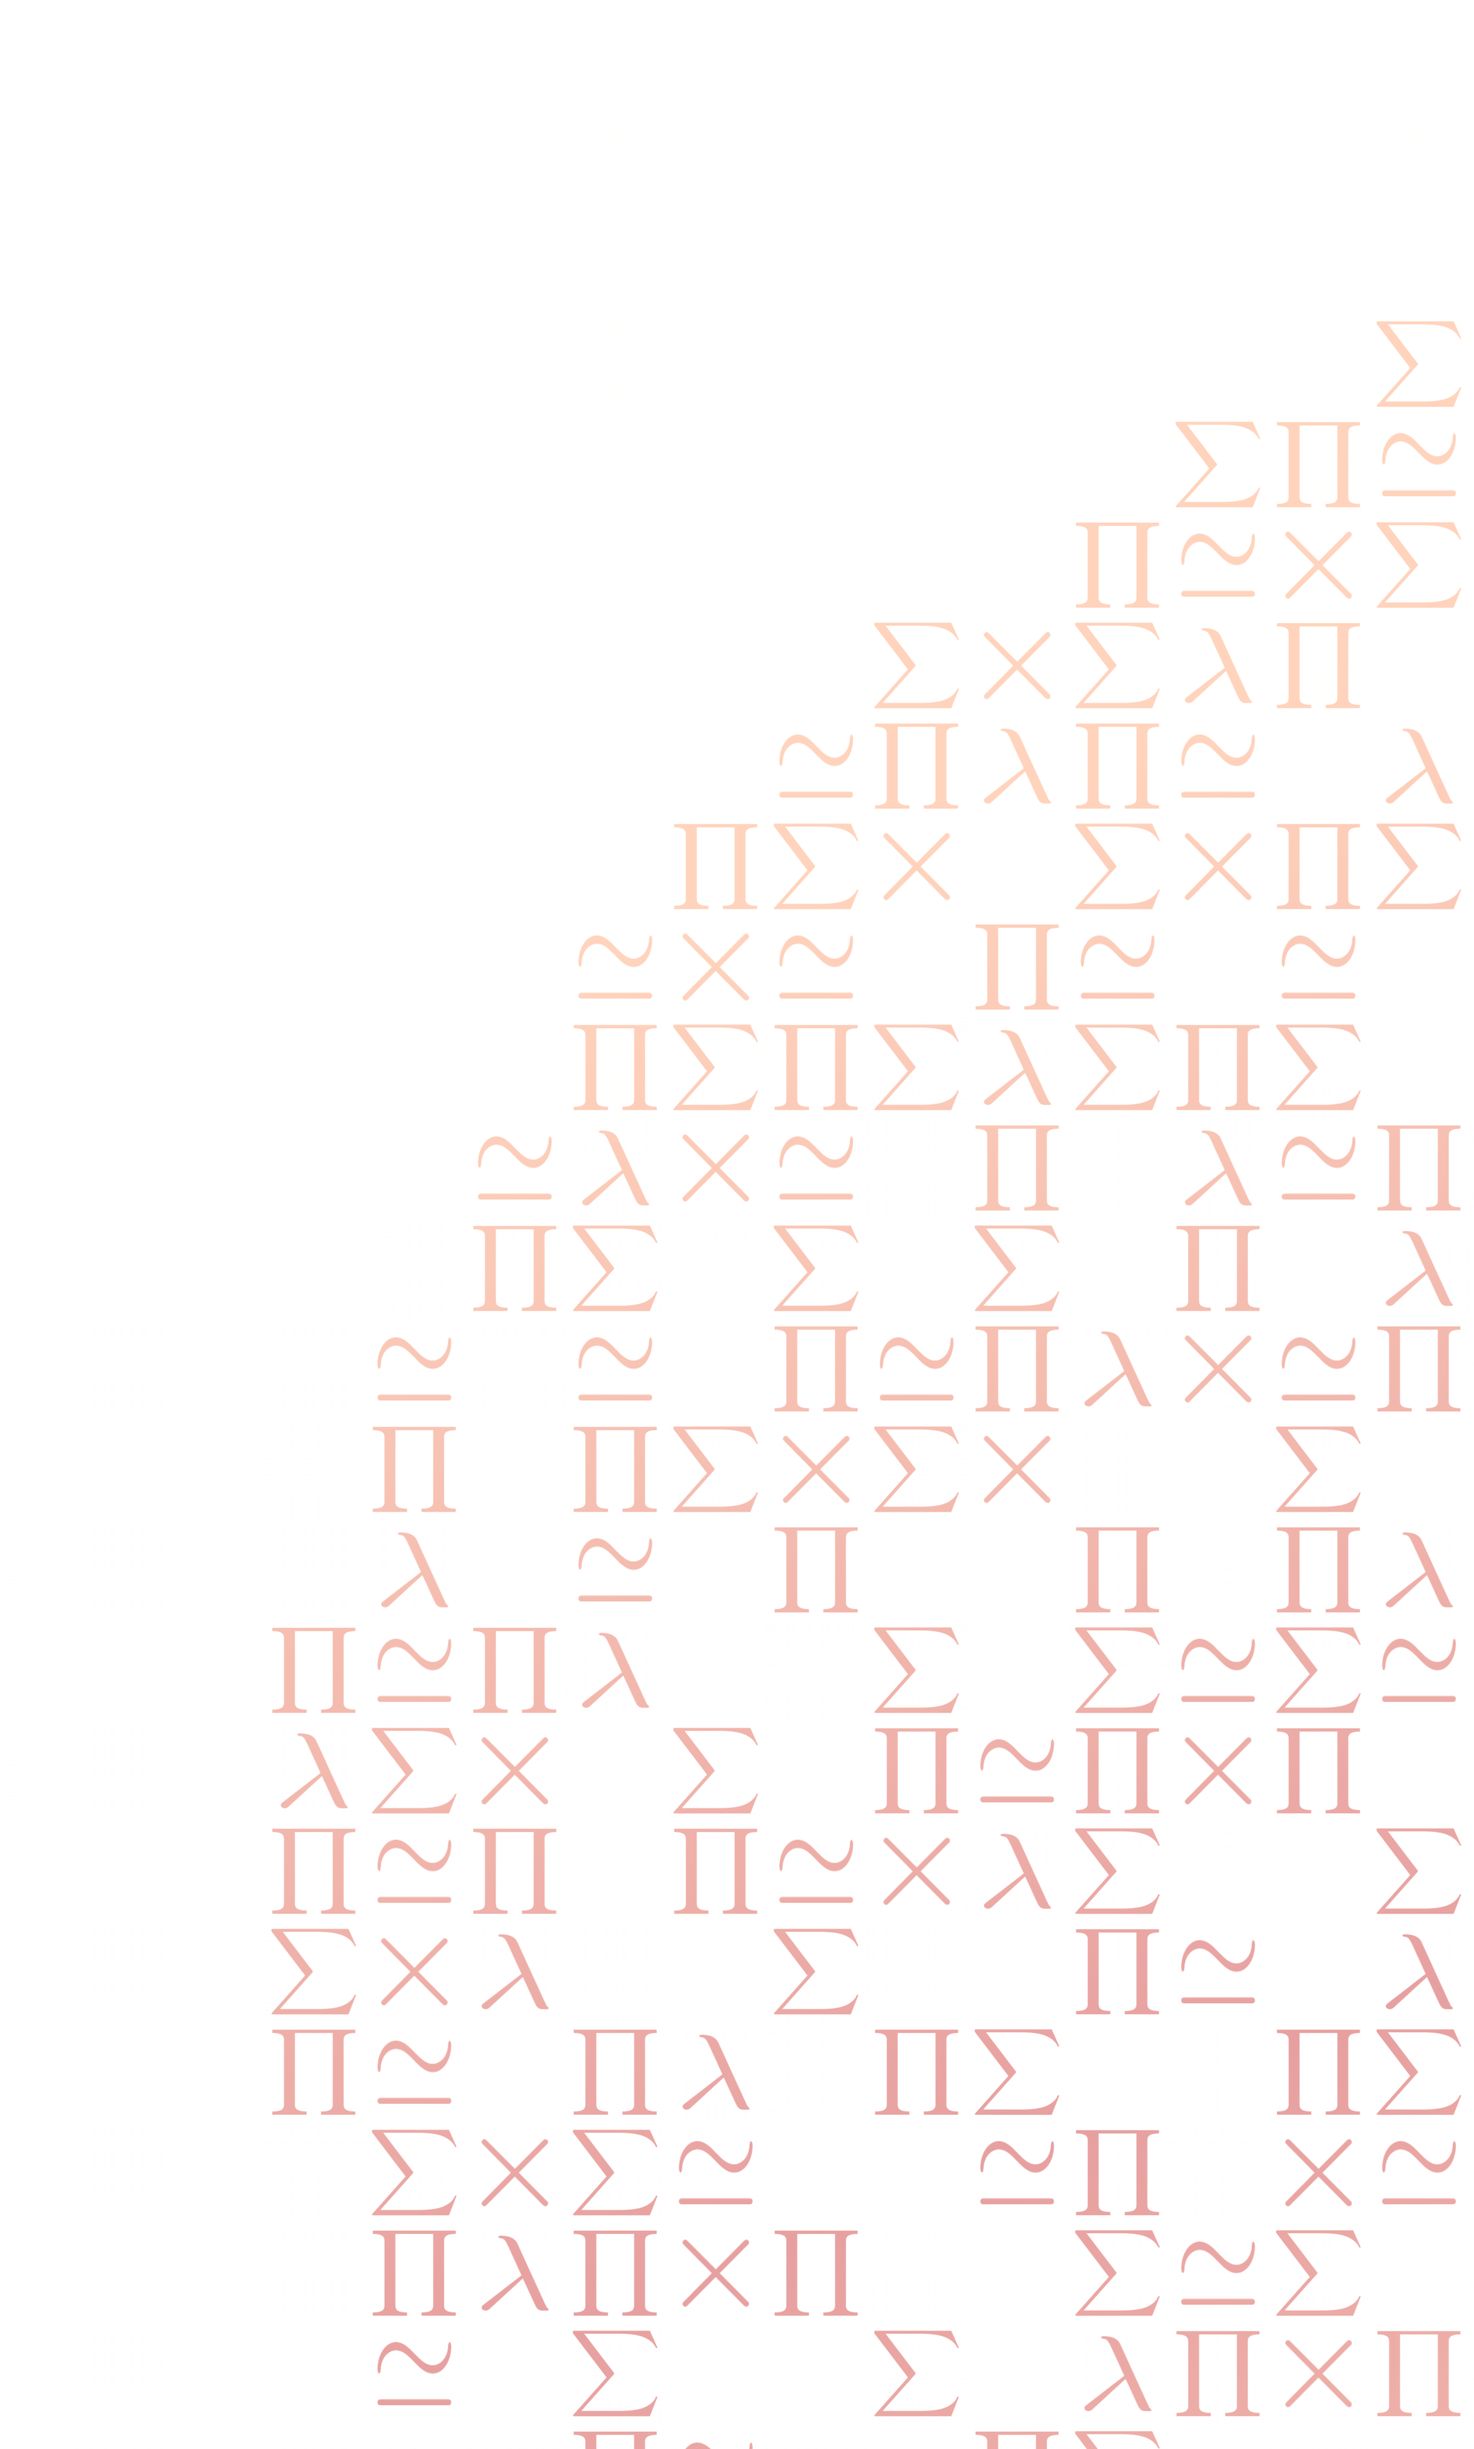
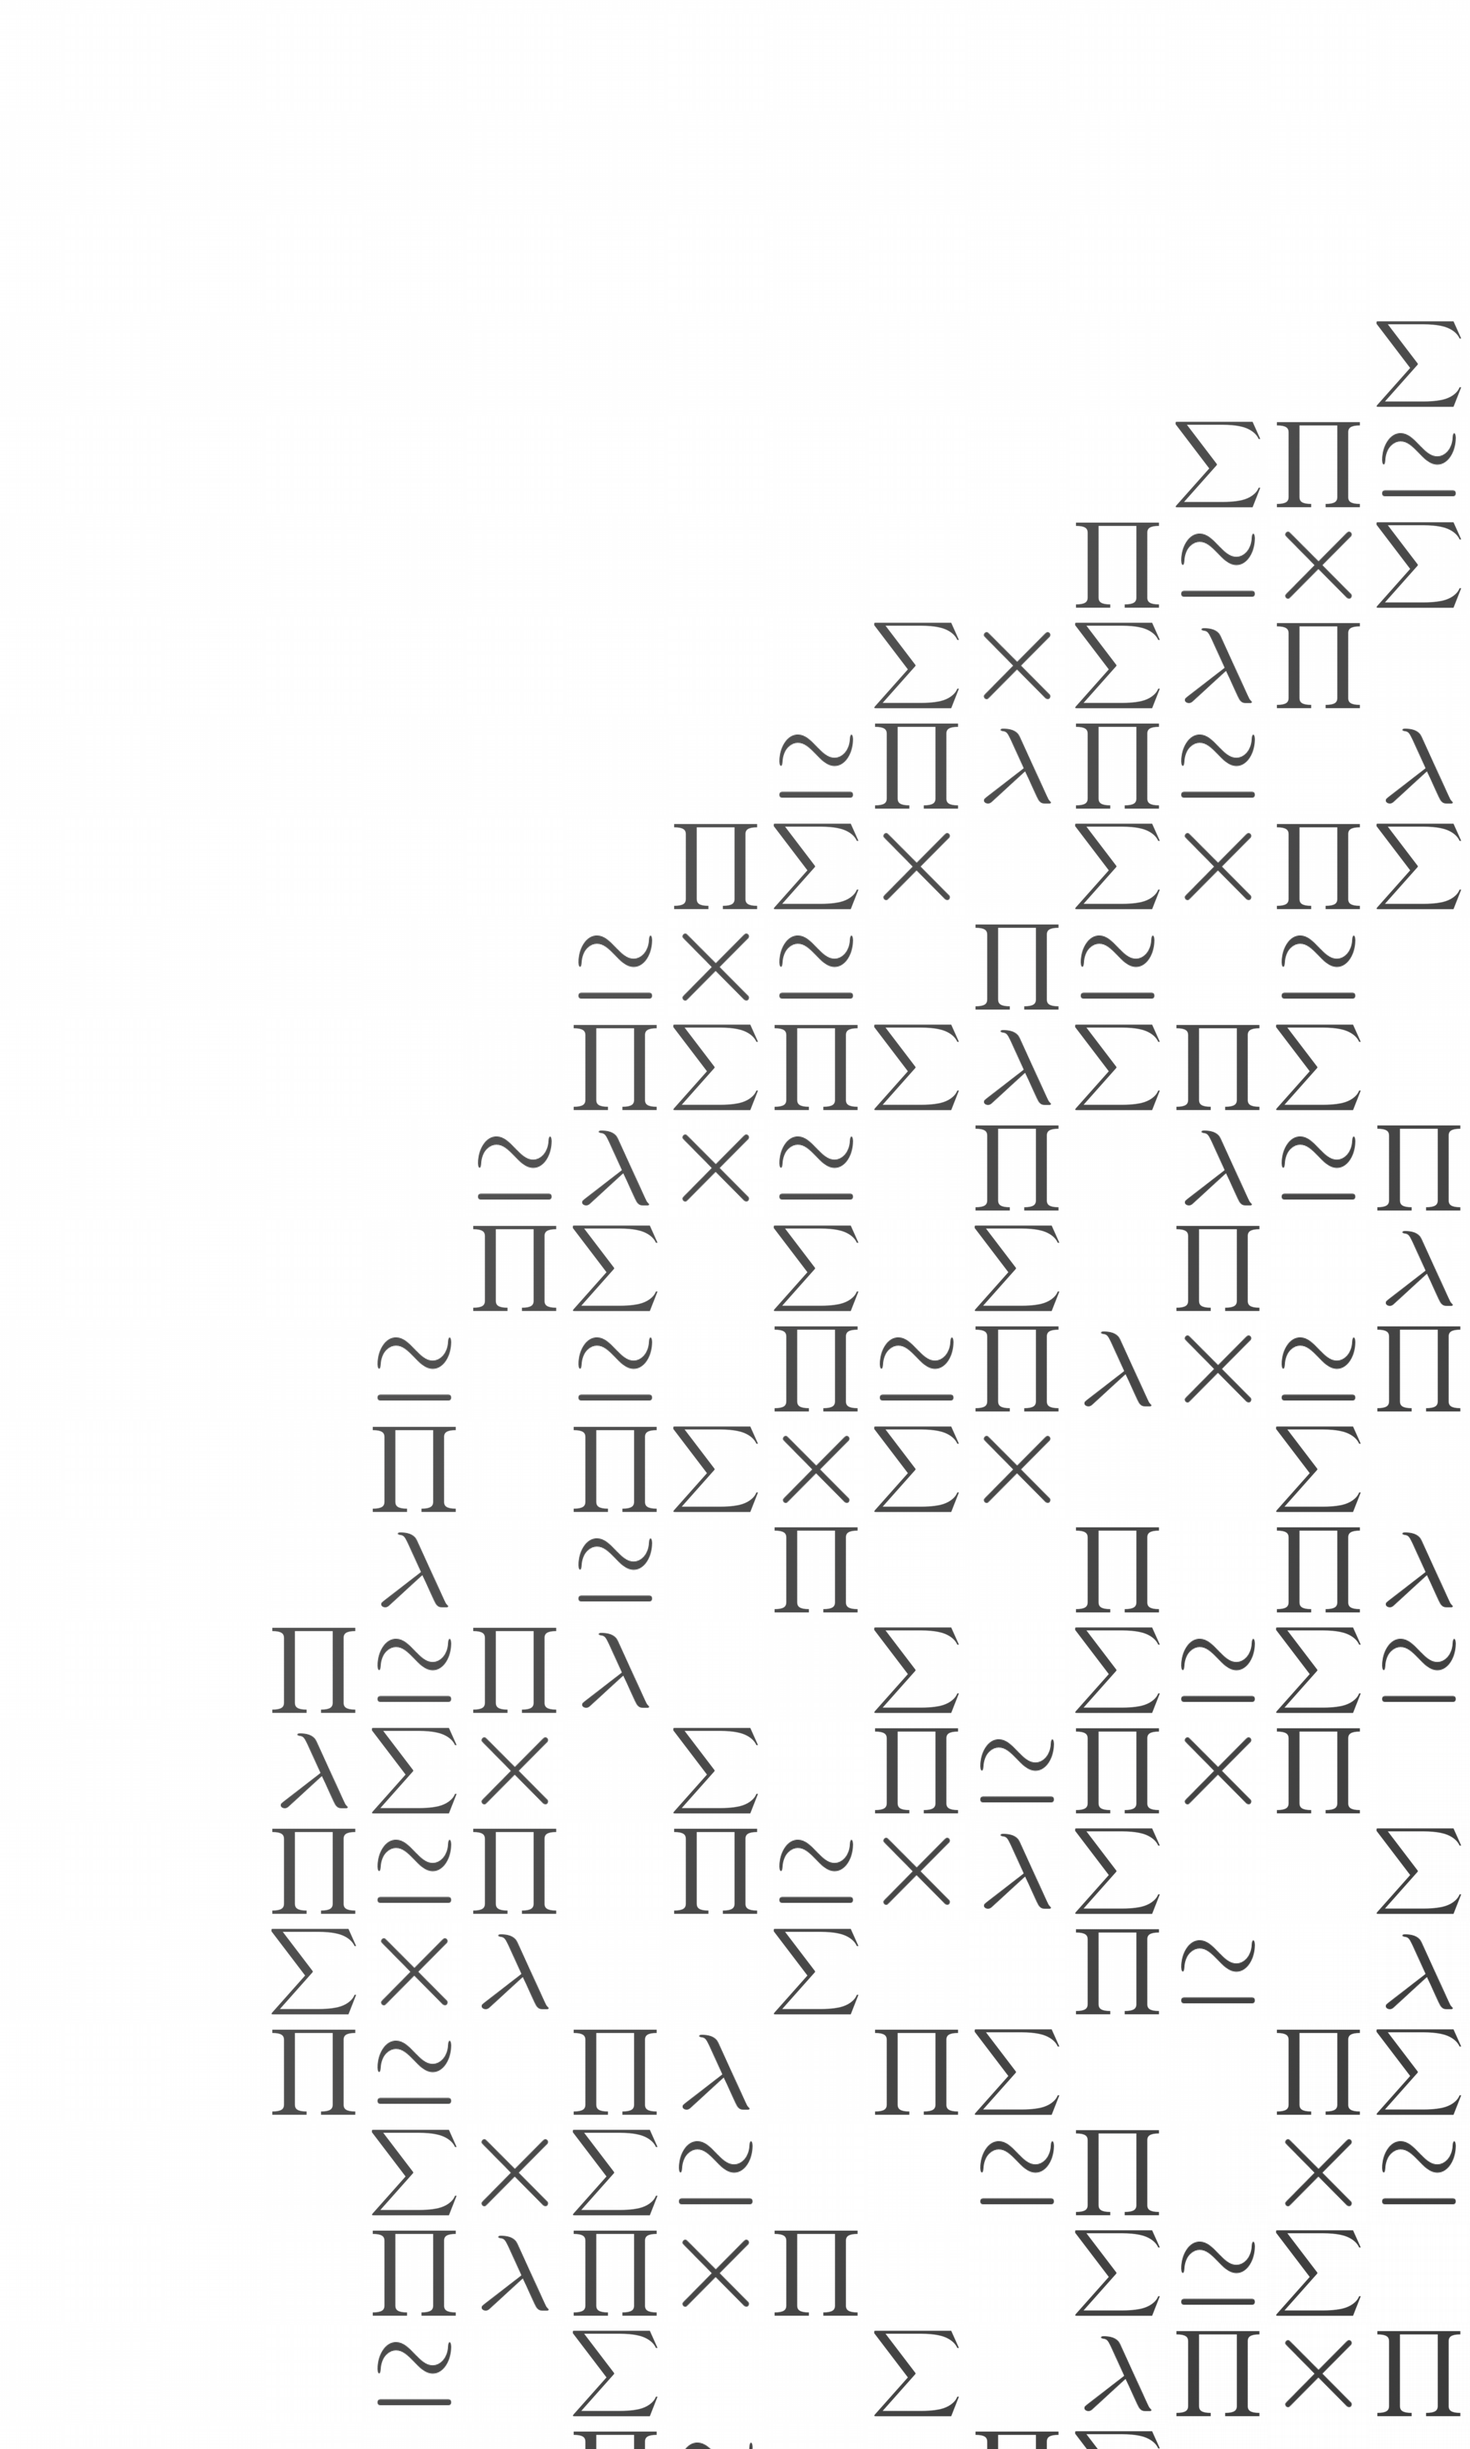
Blue-gray cover, B&W version of cover for home printing

diff --git a/cover-letter.tex b/cover-letter.tex
@@ -9,6 +9,7 @@
 \usepackage{wallpaper}
 
 \definecolor{covercolor}{cmyk}{\OPTcovercolor}
+\definecolor{covertext}{cmyk}{\OPTcovertextcolor}
 \pagecolor{covercolor}
 
 %%% Set the fonts
@@ -40,6 +41,7 @@
 \begin{minipage}[b][\coverheight][t]{\coverwidth}
 \begin{center}
 \begin{minipage}[t]{0.80\coverwidth}
+  \color{covertext}
   \vspace{\OPTtopskip}
   \input{blurb.tex}
 \end{minipage}
@@ -49,9 +51,9 @@
 
 \begin{document}
 %\layout
-\ThisLRCornerWallPaper{1.1}{cover-lores-front}
+\ThisLRCornerWallPaper{1.1}{\OPThifrontimage}
 \coverpage{\frontpage}
 \newpage
-\ThisLRCornerWallPaper{0.7}{cover-lores-back}
+\ThisLRCornerWallPaper{0.7}{\OPThibackimage}
 \coverpage{\backpage}
 \end{document}

diff --git a/main.tex b/main.tex
@@ -147,7 +147,7 @@
 \rhead[\fancyplain{}{\nouppercase{\leftmark}}]%
       {\fancyplain{}{\thepage}}
 \cfoot[]{}
-\lfoot{\textsc{\scriptsize \textcolor{gray}{[Draft of \today]}}}
+\lfoot[]{}
 \rfoot[]{}
 
 %%%% Chapter & part style
@@ -163,6 +163,7 @@
 % For some reason \pagecolor overlays the cover image,
 % unless we use it once before the document starts.
 \definecolor{covercolor}{cmyk}{\OPTcovercolor}
+\definecolor{covertext}{cmyk}{\OPTcovertextcolor}
 \pagecolor{white}
 \nopagecolor
 

diff --git a/opt-black-white.tex b/opt-black-white.tex
@@ -2,6 +2,13 @@
 
 % BACKGROUND OF COVER PAGE
 \def\OPTcovercolor{0,0,0,0}
+\def\OPTcovertextcolor{0,0,0,1}
+
+% COVER IMAGE
+\def\OPTlofrontimage{cover-lores-front-bw.png}
+\def\OPTlobackimage{cover-lores-back-bw.png}
+\def\OPThifrontimage{cover-hires-front-bw.png}
+\def\OPThibackimage{cover-hires-back-bw.png}
 
 % LINK COLORS
 \def\OPTlinkcolor{0,0,0}       % RGB components for clickable links

diff --git a/opt-color.tex b/opt-color.tex
@@ -4,6 +4,12 @@
 \def\OPTcovercolor{0.375,0,0,0.625} % CMYK
 \def\OPTcovertextcolor{0,0,0,0.125}
 
+% COVER IMAGE
+\def\OPTlofrontimage{cover-lores-front.png}
+\def\OPTlobackimage{cover-lores-back.png}
+\def\OPThifrontimage{cover-hires-front.png}
+\def\OPThibackimage{cover-hires-back.png}
+
 % LINK COLORS
 \def\OPTlinkcolor{0,0.45,0}   % RGB components for clickable links
 

diff --git a/back.tex b/back.tex
@@ -4,8 +4,9 @@
 \cleartoevenpage
 
 %%%%%%%%%%%%%%%%%%%% Back cover %%%%%%%%%%%%%%%%%%%%
-\ThisLRCornerWallPaper{0.7}{cover-lores-back}
+\ThisLRCornerWallPaper{0.7}{\OPTlobackimage}
 \pagecolor{covercolor}
+\color{covertext}
 \input{blurb.tex}
 \else
 \fi

diff --git a/front.tex b/front.tex
@@ -7,7 +7,7 @@
 \newlength{\coverwidth}
 \setlength{\coverwidth}{8.45in}
 \input{frontpage}
-\ThisLLCornerWallPaper{1.1}{cover-lores-front}
+\ThisLLCornerWallPaper{1.1}{\OPTlofrontimage}
 \pagecolor{covercolor}
 \frontpage
 \newpage
